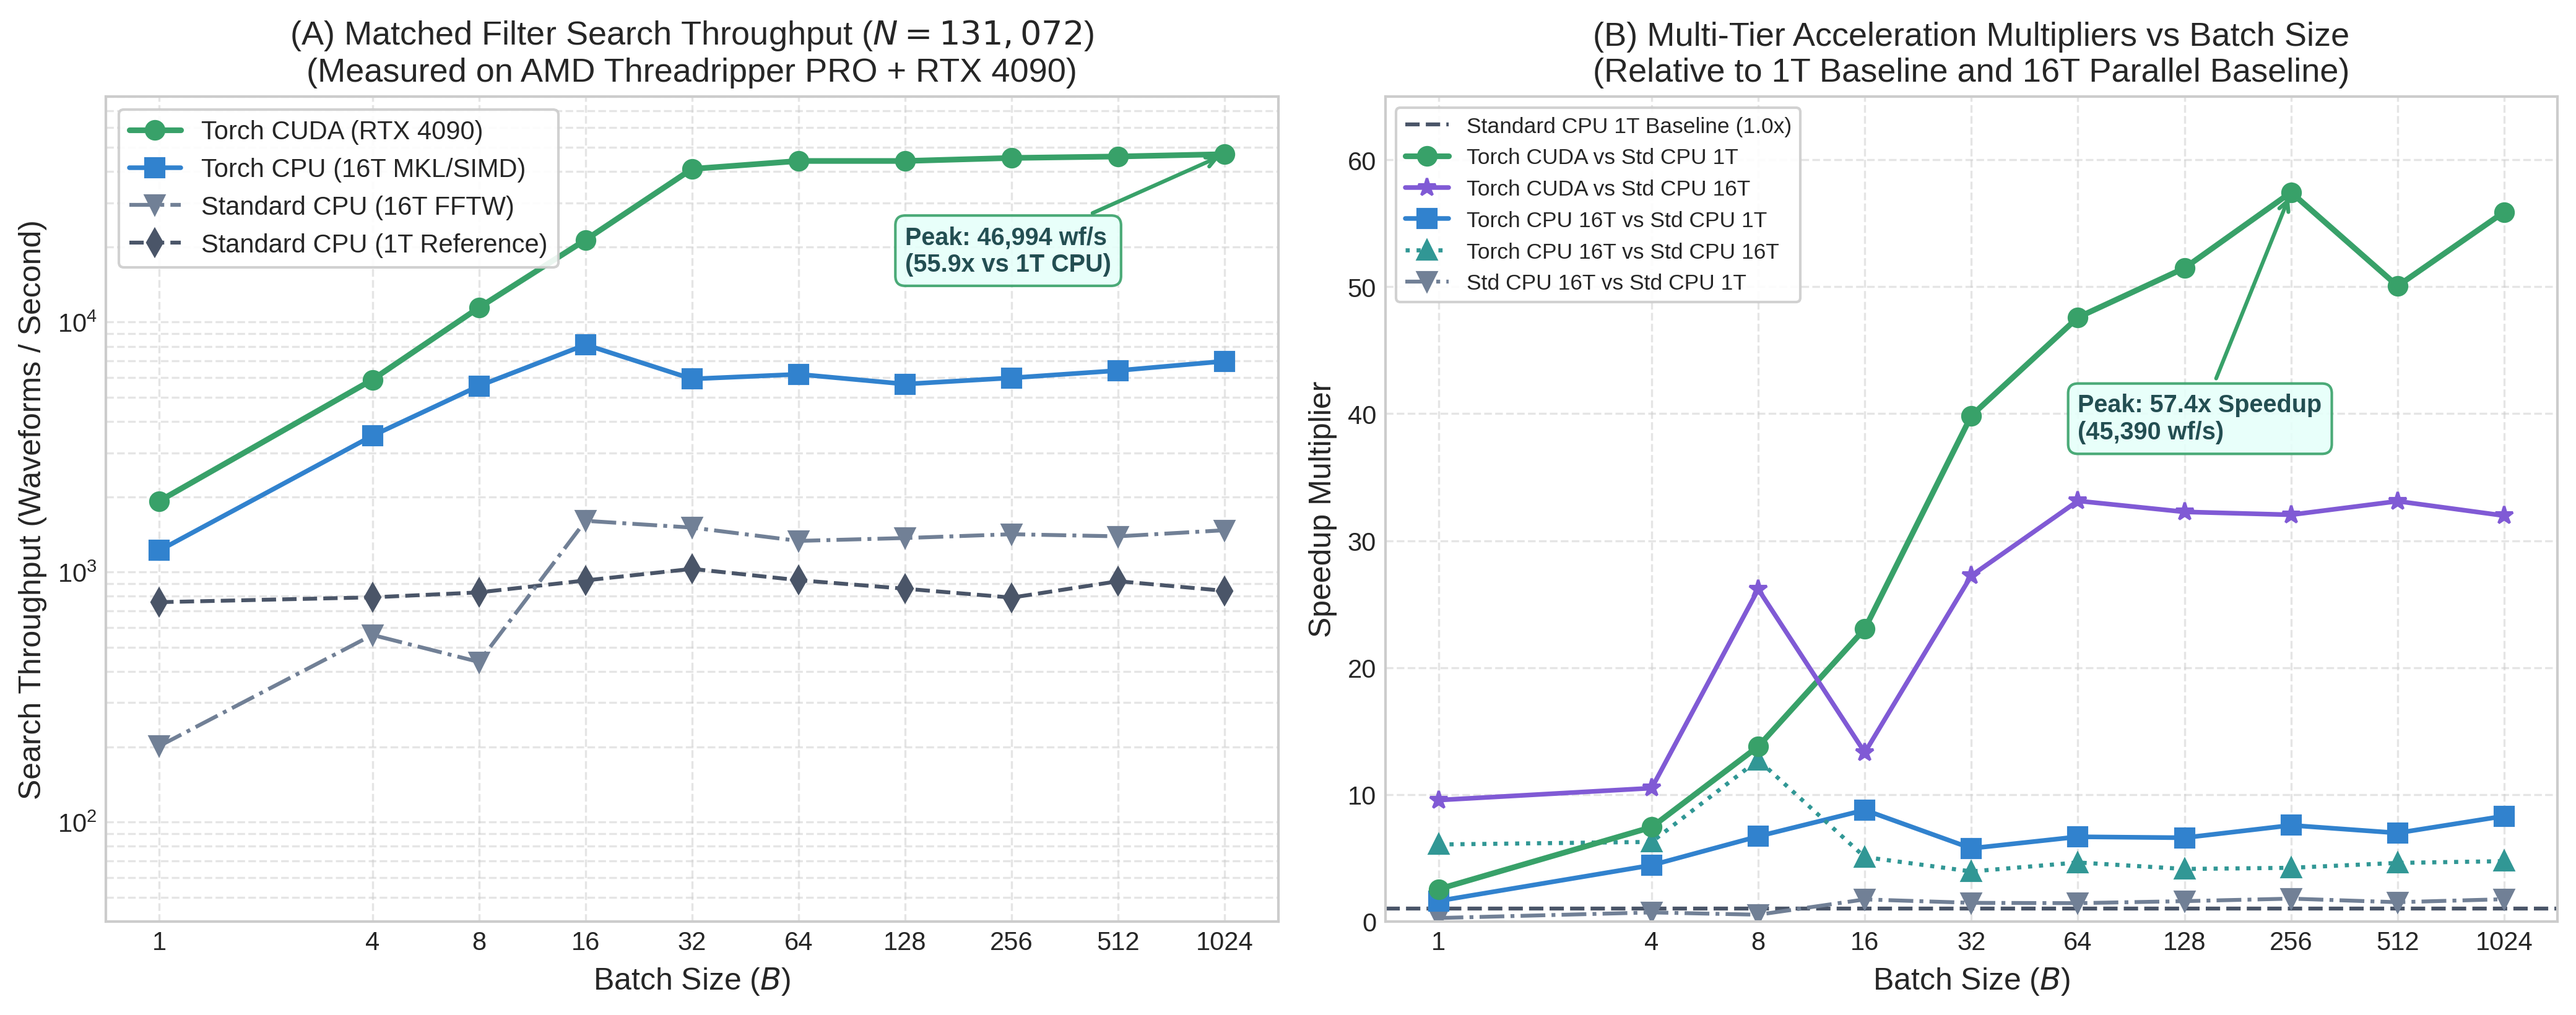
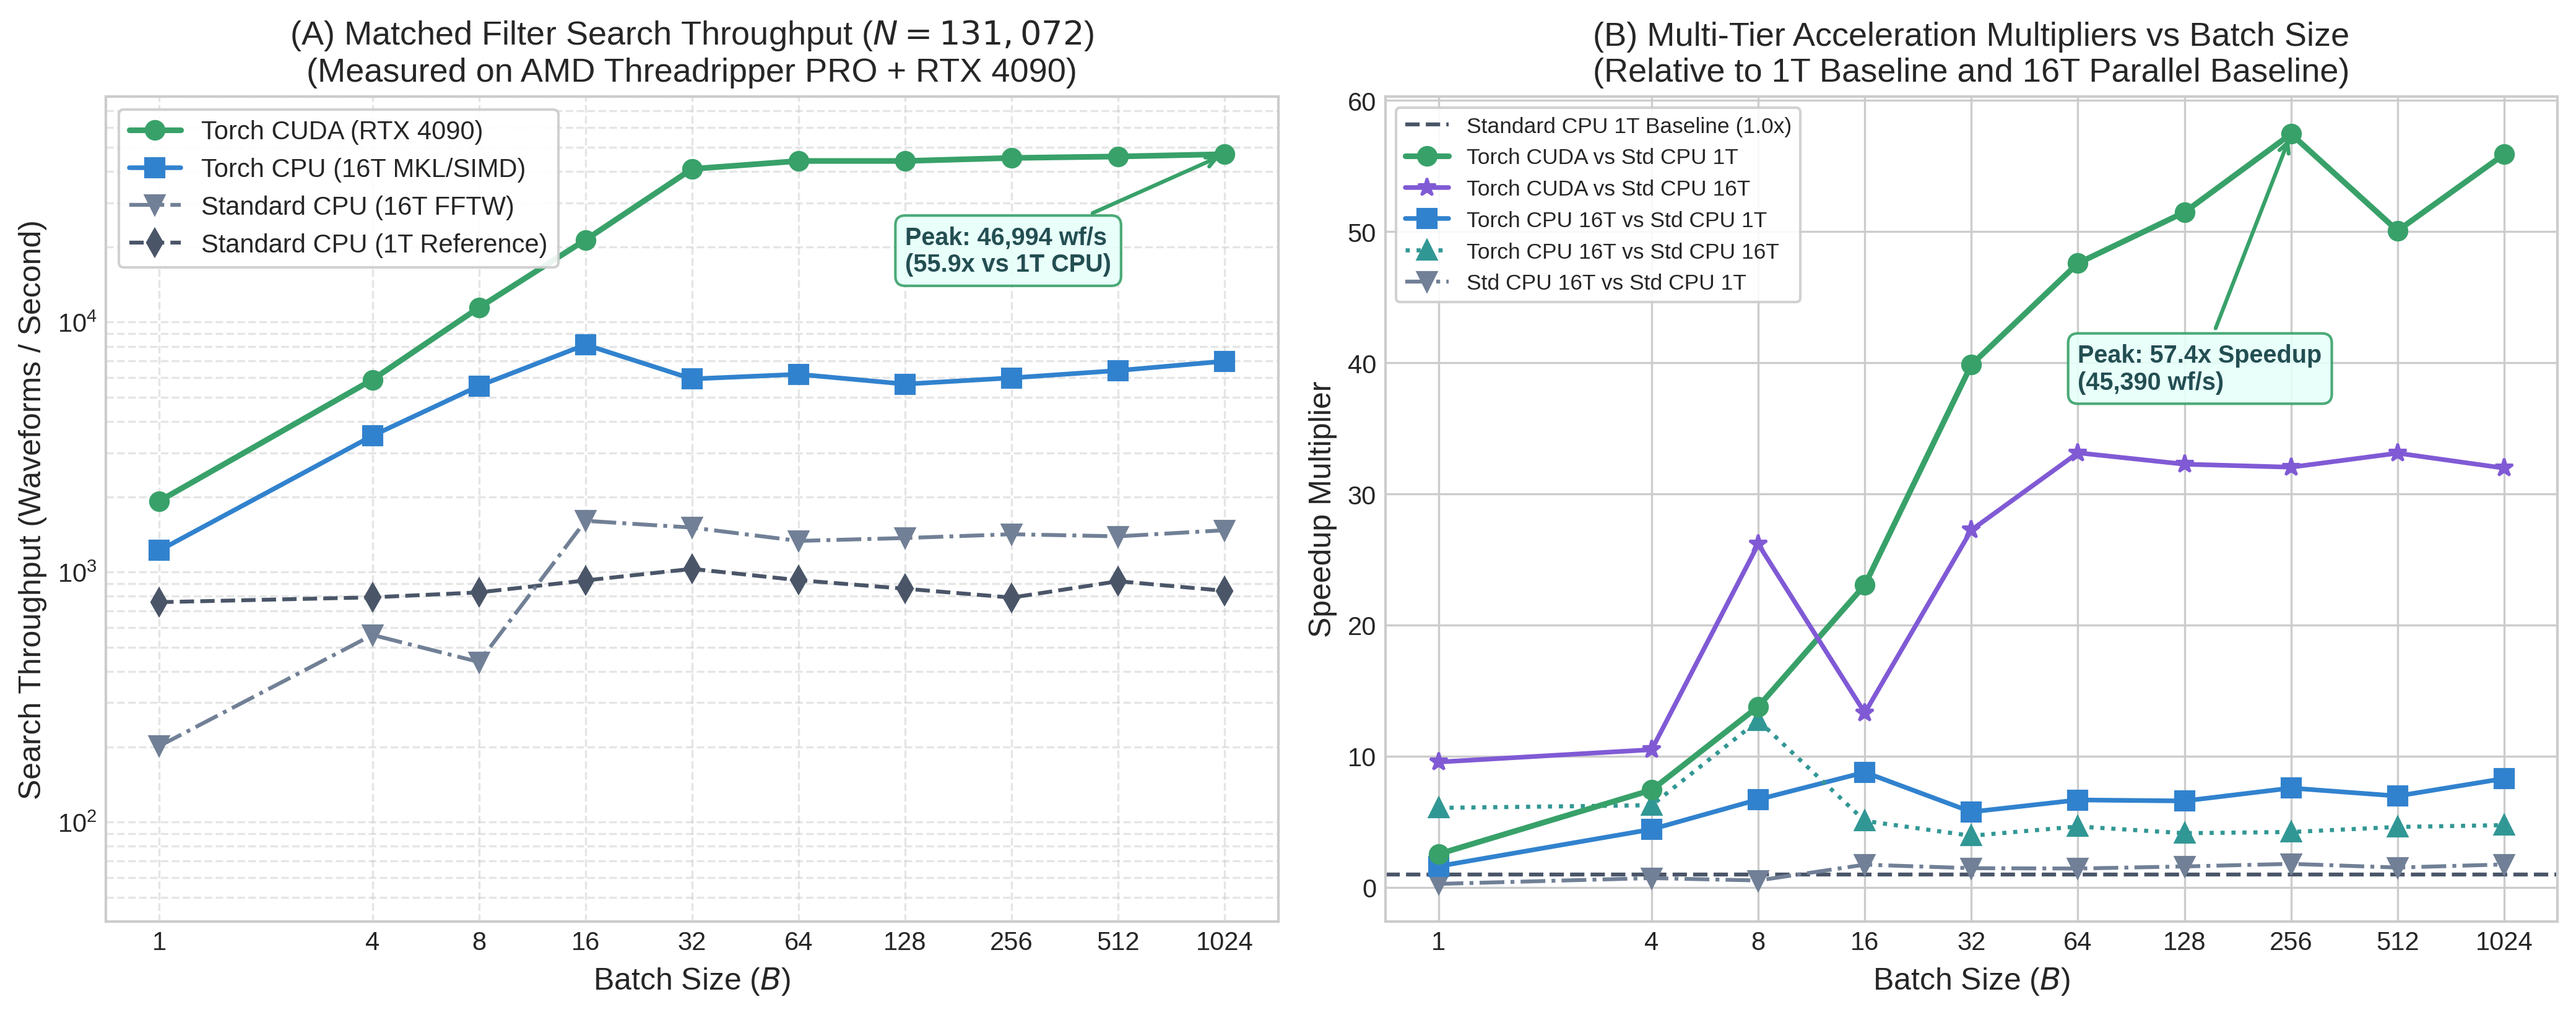
feat(benchmarks, docs): Add CPU multi-thread scaling plot (Figure 8), embed missing figures in documentation, and sanitize host titles

Changed region(s): [[0.5311, 0.1244, 0.9998, 0.9018], [0.9685, 0.1244, 0.9998, 0.1555]]

diff --git a/tools/generate_torch_performance_plots.py b/tools/generate_torch_performance_plots.py
@@ -167,10 +167,14 @@ relbin_seq_ms = np.array([0.30, 2.98, 29.41, 298.62])
 relbin_bat_ms = np.array([0.04, 0.13, 1.48, 5.52])
 
 # Try loading from comprehensive suite artifact
-suite_json = os.path.join(artifacts_dir, "len_extended_full_suite.json")
+suite_json = os.path.join(artifacts_dir, "extended_full_suite.json")
 if not os.path.exists(suite_json):
     suite_json = os.path.join(
         artifacts_dir, "comprehensive_benchmark_results.json"
+    )
+if not os.path.exists(suite_json):
+    suite_json = os.path.join(
+        artifacts_dir, "len_extended_full_suite.json"
     )
 
 if os.path.exists(suite_json):
@@ -813,7 +817,7 @@ axs[1, 1].annotate(
 
 plt.suptitle(
     'PyCBC PyTorch Acceleration Suite Performance Dashboard '
-    '(len: RTX 4090 + AMD Threadripper PRO)',
+    '(RTX 4090 + AMD Threadripper PRO 3995WX)',
     fontsize=14, y=0.995, fontweight='bold'
 )
 plt.tight_layout()
@@ -1158,3 +1162,137 @@ ax2.annotate(
 plt.tight_layout()
 save_fig_dual(fig, 'torch_matched_filter_symm_scaling.png')
 plt.close()
+
+# ==============================================================================
+# FIGURE 8: CPU Multi-Thread Scaling & Component Breakdown (1T-64T)
+# ==============================================================================
+fig, (ax1, ax2) = plt.subplots(1, 2, figsize=(14, 5.6))
+
+# Fallback values from AMD Ryzen Threadripper PRO 3995WX profile
+cpu_threads = np.array([1, 4, 8, 16, 32, 64])
+cpu_sizes = [32768, 65536, 131072, 262144, 524288]
+cpu_size_labels = ['32k (16s)', '65k (32s)', '131k (64s)', '262k (128s)', '524k (256s)']
+
+# Latencies in ms across threads for each N
+cpu_scaling_data = {
+    32768: [0.284, 0.254, 0.212, 0.215, 0.252, 0.264],
+    65536: [0.720, 0.471, 0.313, 0.311, 0.343, 0.448],
+    131072: [0.925, 0.639, 0.473, 0.438, 0.432, 5.019],
+    262144: [2.036, 1.072, 0.614, 0.534, 0.731, 4.035],
+    524288: [4.036, 2.209, 1.090, 0.687, 0.688, 2.877],
+}
+
+# Component breakdown at N=524288 (ms)
+comp_corr = [0.296, 0.152, 0.083, 0.057, 0.061, 0.078]
+comp_ifft = [3.144, 1.774, 0.869, 0.522, 0.497, 0.540]
+comp_clust = [0.546, 0.217, 0.116, 0.092, 0.116, 2.203]
+
+cpu_breakdown_json = os.path.join(artifacts_dir, "cpu_profile_breakdown.json")
+if os.path.exists(cpu_breakdown_json):
+    try:
+        with open(cpu_breakdown_json, "r") as f:
+            cp_data = json.load(f)
+        dyn_scaling = {n: {} for n in cpu_sizes}
+        dyn_corr = {}
+        dyn_ifft = {}
+        dyn_clust = {}
+        for item in cp_data:
+            n_val = item.get("N")
+            t_val = item.get("threads")
+            if n_val in dyn_scaling and t_val in cpu_threads:
+                full_ms = item["full_us"]["median"] / 1000.0
+                dyn_scaling[n_val][t_val] = full_ms
+                if n_val == 524288:
+                    dyn_corr[t_val] = item["corr_us"]["median"] / 1000.0
+                    dyn_ifft[t_val] = item["ifft_us"]["median"] / 1000.0
+                    dyn_clust[t_val] = item["cluster_us"]["median"] / 1000.0
+        for n_val in cpu_sizes:
+            if all(t in dyn_scaling[n_val] for t in cpu_threads):
+                cpu_scaling_data[n_val] = [dyn_scaling[n_val][t] for t in cpu_threads]
+        if all(t in dyn_corr for t in cpu_threads):
+            comp_corr = [dyn_corr[t] for t in cpu_threads]
+            comp_ifft = [dyn_ifft[t] for t in cpu_threads]
+            comp_clust = [dyn_clust[t] for t in cpu_threads]
+        print(f"Loaded CPU scaling breakdown from {cpu_breakdown_json}")
+    except Exception as e:
+        print(f"Notice: using default CPU scaling data ({e})")
+
+# Panel 1: End-to-End Latency vs Thread Count
+colors_n = ['#718096', '#3182CE', '#38A169', '#D69E2E', '#E53E3E']
+markers_n = ['o', 's', '^', 'D', 'v']
+
+for idx, n_val in enumerate(cpu_sizes):
+    ax1.plot(
+        cpu_threads, cpu_scaling_data[n_val],
+        marker=markers_n[idx], color=colors_n[idx], linewidth=1.8,
+        label=f'N = {cpu_size_labels[idx]}'
+    )
+
+# Highlight sweet spot (16 threads)
+ax1.axvspan(12, 20, color='#38A169', alpha=0.15, label='Optimal Bandwidth Range (16T)')
+
+ax1.set_xlabel('CPU Threads (OMP_NUM_THREADS / MKL_NUM_THREADS)')
+ax1.set_ylabel('Sequential Execution Latency (ms, log scale)')
+ax1.set_title('(A) CPU Thread Scaling vs Segment Size $N$\n(MKL DFTI + SIMD Peak Clustering)')
+ax1.set_xscale('log', base=2)
+ax1.set_yscale('log')
+ax1.set_xticks(cpu_threads)
+ax1.set_xticklabels([f'{t}T' for t in cpu_threads])
+ax1.legend(frameon=True, facecolor='white', framealpha=0.9, loc='upper right', fontsize=8.5)
+ax1.grid(True, which='both', linestyle='--', alpha=0.5)
+
+# Panel 2: Stacked Operation Breakdown at N=524288
+x_indices = np.arange(len(cpu_threads))
+width_b = 0.55
+
+bar_corr = ax2.bar(
+    x_indices, comp_corr, width_b,
+    label='Frequency Correlation (Htilde * Stilde)',
+    color='#63B3ED', edgecolor='black', linewidth=0.5
+)
+bar_ifft = ax2.bar(
+    x_indices, comp_ifft, width_b, bottom=comp_corr,
+    label='MKL DFTI Inverse FFT (IFFT)',
+    color='#3182CE', edgecolor='black', linewidth=0.5
+)
+bar_clust = ax2.bar(
+    x_indices, comp_clust, width_b,
+    bottom=np.array(comp_corr) + np.array(comp_ifft),
+    label='Peak Finding & Clustering',
+    color='#DD6B20', edgecolor='black', linewidth=0.5
+)
+
+# Annotate speedup at 16T
+speedup_16t = cpu_scaling_data[524288][0] / cpu_scaling_data[524288][3]
+ax2.annotate(
+    f'16T Optimum: {cpu_scaling_data[524288][3]:.2f} ms\n({speedup_16t:.1f}x speedup vs 1T)',
+    xy=(3, cpu_scaling_data[524288][3]),
+    xytext=(1.8, 3.2),
+    arrowprops=dict(arrowstyle='->', color='#2B6CB0', lw=1.5),
+    bbox=dict(boxstyle='round,pad=0.3', facecolor='#EBF8FF', edgecolor='#3182CE', alpha=0.9),
+    fontsize=9, fontweight='bold', color='#2B6CB0'
+)
+
+# Annotate cross-NUMA barrier penalty at 64T
+ax2.annotate(
+    '64T Cross-NUMA Barrier\nOverhead Penalty',
+    xy=(5, cpu_scaling_data[524288][5]),
+    xytext=(3.5, 4.2),
+    arrowprops=dict(arrowstyle='->', color='#C53030', lw=1.5),
+    bbox=dict(boxstyle='round,pad=0.3', facecolor='#FFF5F5', edgecolor='#E53E3E', alpha=0.9),
+    fontsize=8.5, fontweight='bold', color='#9B2C2C'
+)
+
+ax2.set_xlabel('CPU Threads')
+ax2.set_ylabel('Execution Time (ms) [N = 524,288 / 256s]')
+ax2.set_title('(B) Component Scaling & Amdahl Bottlenecks ($N=524,288$)\nLinear MKL Scaling up to 16 Threads')
+ax2.set_xticks(x_indices)
+ax2.set_xticklabels([f'{t}T' for t in cpu_threads])
+ax2.set_ylim(0, 5.2)
+ax2.legend(frameon=True, facecolor='white', framealpha=0.9, loc='upper right', fontsize=8.5)
+ax2.grid(True, linestyle='--', alpha=0.5, axis='y')
+
+plt.tight_layout()
+save_fig_dual(fig, 'torch_cpu_thread_scaling.png')
+plt.close()
+

diff --git a/docs/torch_performance.rst b/docs/torch_performance.rst
@@ -391,9 +391,21 @@ measurement and restored after it completed.
 
 For the visual live-batch throughput scaling curve, paired speedup plots, and
 block latency breakdown, see :ref:`torch-live-batch-evidence`
-and :ref:`torch-evidence-qualification` in :doc:`torch_optimization_results`
-(specifically ``torch_live_batch_scaling.png`` and
-``torch_latency_breakdown.png``).
+and :ref:`torch-evidence-qualification` in :doc:`torch_optimization_results`:
+
+.. figure:: images/torch_live_batch_scaling.png
+   :alt: Live-batch matched filter search throughput and speedup scaling
+   :align: center
+   :width: 100%
+
+   Live-batch matched filter search throughput across batch sizes :math:`B=1..1024` on NVIDIA GeForce RTX 4090 and AMD Threadripper PRO 3995WX, displaying multi-tier speedup curves.
+
+.. figure:: images/torch_latency_breakdown.png
+   :alt: Live-batch matched filter latency per block and per-waveform marginal cost
+   :align: center
+   :width: 100%
+
+   Live-batch block latency and per-waveform cost amortization down to :math:`\approx 3.7\,\mu\text{s}`.
 
 Historical batched search component/pipeline baseline
 -----------------------------------------------------
@@ -609,10 +621,28 @@ passed.  The sealed artifact SHA-256 is
 For the visual single-call latency comparison, vectorized tensor-batch
 scaling curves across approximants, executive dashboard, and time-domain
 numerical ODE evidence, see :ref:`torch-waveform-evidence` and
-:ref:`torch-td-waveform-evidence` in :doc:`torch_optimization_results`
-(specifically ``torch_waveform_throughput.png``,
-``torch_performance_dashboard.png``, and
-``torch_td_waveform_evidence.png``).
+:ref:`torch-td-waveform-evidence` in :doc:`torch_optimization_results`:
+
+.. figure:: images/torch_waveform_throughput.png
+   :alt: Waveform generation latency and batched throughput across approximants
+   :align: center
+   :width: 100%
+
+   Waveform latency (:math:`N=1`) and batched throughput (:math:`B=4096`) comparing PyTorch native and accelerated models against compiled LAL C references across 9 waveform families.
+
+.. figure:: images/torch_performance_dashboard.png
+   :alt: Executive PyTorch acceleration performance dashboard
+   :align: center
+   :width: 100%
+
+   Comprehensive 4-panel executive performance dashboard summarizing search, waveform, inference, and latency scaling.
+
+.. figure:: images/torch_td_waveform_evidence.png
+   :alt: Dedicated time-domain and SEOBNR waveform evidence
+   :align: center
+   :width: 100%
+
+   Time-domain waveform generation latency and execution location breakdown across TaylorT4, SEOBNRv4, SEOBNRv4HM, and SEOBNRv4PHM.
 
 Regular waveform routing
 ------------------------
@@ -1375,7 +1405,7 @@ benchmarking, parity validation, and visualization into a standardized toolchain
      - Science correctness, numeric accuracy, and parity gates against LALSuite
      - Console validation report & pass/fail exit code
    * - ``tools/generate_torch_performance_plots.py``
-     - Dynamic JSON ingestion and automated rendering of 7 publication figures at 300 DPI
+     - Dynamic JSON ingestion and automated rendering of 8 publication figures at 300 DPI
      - ``docs/images/torch_*.png``
 
 Reproduction Commands
@@ -1400,6 +1430,13 @@ Reproduction Commands
           --iterations 30 \
           --output artifacts/matched_filter_symm_benchmark.json
 
+   .. figure:: images/torch_matched_filter_symm_scaling.png
+      :alt: Single-template production matched filtering latency and speedup scaling
+      :align: center
+      :width: 100%
+
+      Single-template production matched filtering latency (ms) and speedup curves across segment lengths :math:`N=32\text{k}..524\text{k}` (16 s to 256 s) on NVIDIA GeForce RTX 4090.
+
 3. **Running the 4-Route Production Live-Batch Gate:**
 
    .. code-block:: bash
@@ -1418,6 +1455,13 @@ Reproduction Commands
 
       # Dynamically parses JSON artifacts from artifacts/ and renders docs/images/*.png:
       python tools/generate_torch_performance_plots.py
+
+   .. figure:: images/torch_cpu_thread_scaling.png
+      :alt: PyTorch CPU multi-thread scaling and Amdahl component breakdown
+      :align: center
+      :width: 100%
+
+      PyTorch CPU multi-thread scaling (1T to 64T) across segment lengths and Amdahl sub-operation breakdown at :math:`N=524,288`.
 
 5. **Verifying Parity & Documentation Build:**
 

diff --git a/docs/torch_optimization_results.rst b/docs/torch_optimization_results.rst
@@ -404,6 +404,15 @@ The benchmark measures single-template filtering across segment lengths from :ma
    Verifies strict :math:`O(K)` linearity (:math:`R^2 > 0.9999`) across uniform, strictly decreasing (22.7 ns/event),
    strictly increasing (2.5 ns/event), zigzag, and bursty input distributions up to 1,000,000 events.
 
+.. figure:: images/torch_cpu_thread_scaling.png
+   :alt: PyTorch CPU multi-thread scaling and Amdahl component breakdown
+   :align: center
+   :width: 100%
+
+   **Figure 11: PyTorch CPU multi-thread scaling and Amdahl component breakdown.**
+   *Left:* Execution latency (ms) vs CPU thread count (:math:`1, 4, 8, 16, 32, 64` threads) across segment lengths (:math:`N=32\text{k}` to :math:`524\text{k}`), showing optimal memory bandwidth utilization at 16 threads.
+   *Right:* Stacked sub-operation breakdown at :math:`N=524,288` (Frequency Correlation, MKL DFTI IFFT, Symmetric Peak Clustering), illustrating linear scaling up to 16 threads and cross-NUMA barrier synchronization overhead at 64 threads.
+
 Current conclusions
 ===================
 
